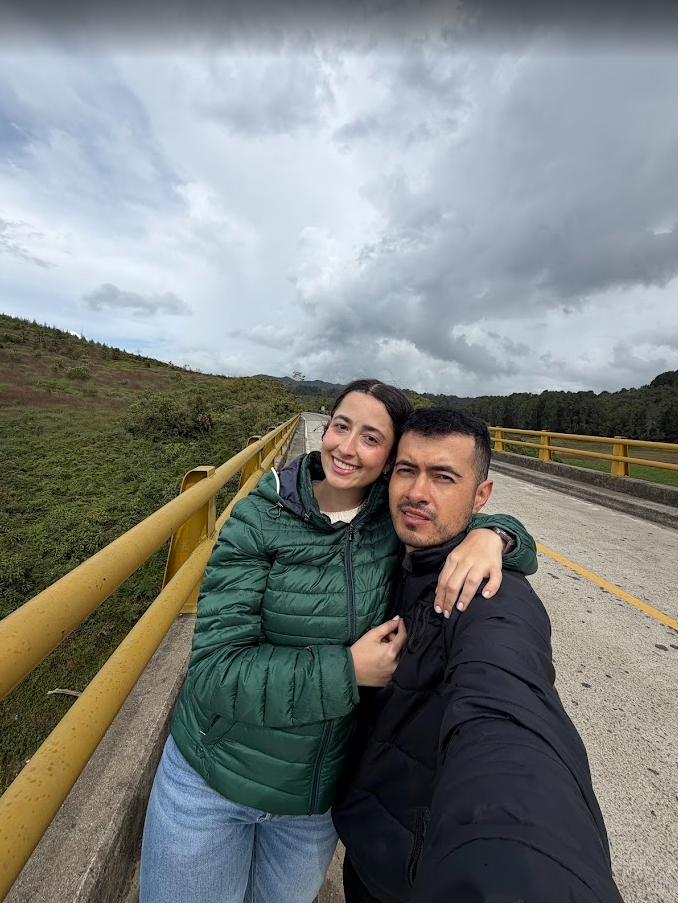
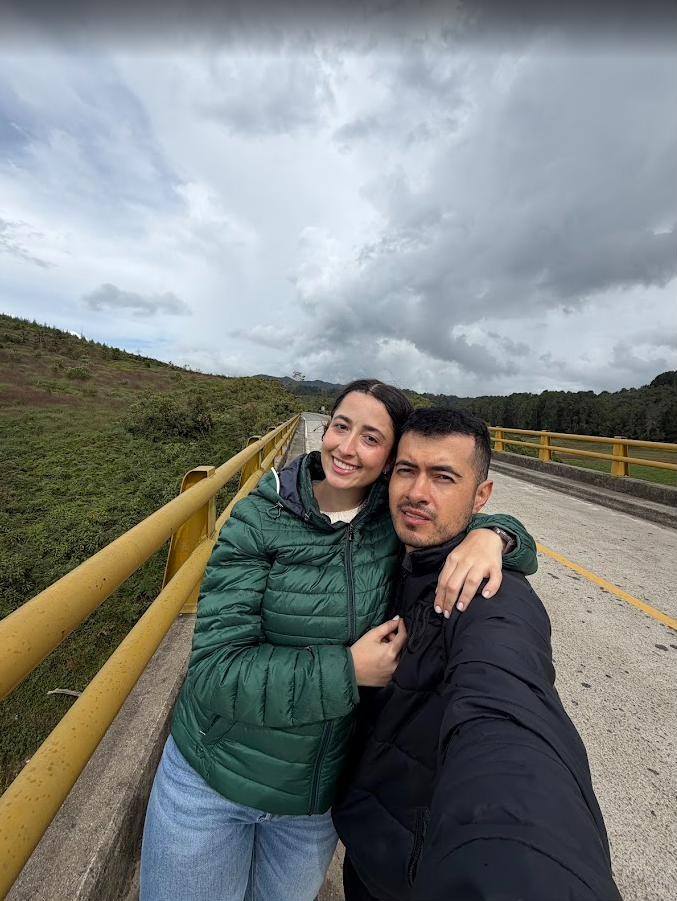
Crop white border baked into welcome photo; bust image cache
Claude-Session: https://claude.ai/code/session_01L9DARrXs8zYx5pyy5dDwim

diff --git a/index.html b/index.html
@@ -1642,7 +1642,7 @@ function dayTemplate() {
 
 function welcomeTemplate() {
   return `
-    <img class="welcome-photo" src="foto-bienvenida.jpg" alt="Lau y Sebas">
+    <img class="welcome-photo" src="foto-bienvenida.jpg?v=2" alt="Lau y Sebas">
     <p class="welcome-msg">No importas cuando leas esto Lau: Te quiero, te elijo y te respeto.</p>
     <button class="btn done" id="btn-welcome-close" style="width:100%;">Cerrar</button>
   `;
